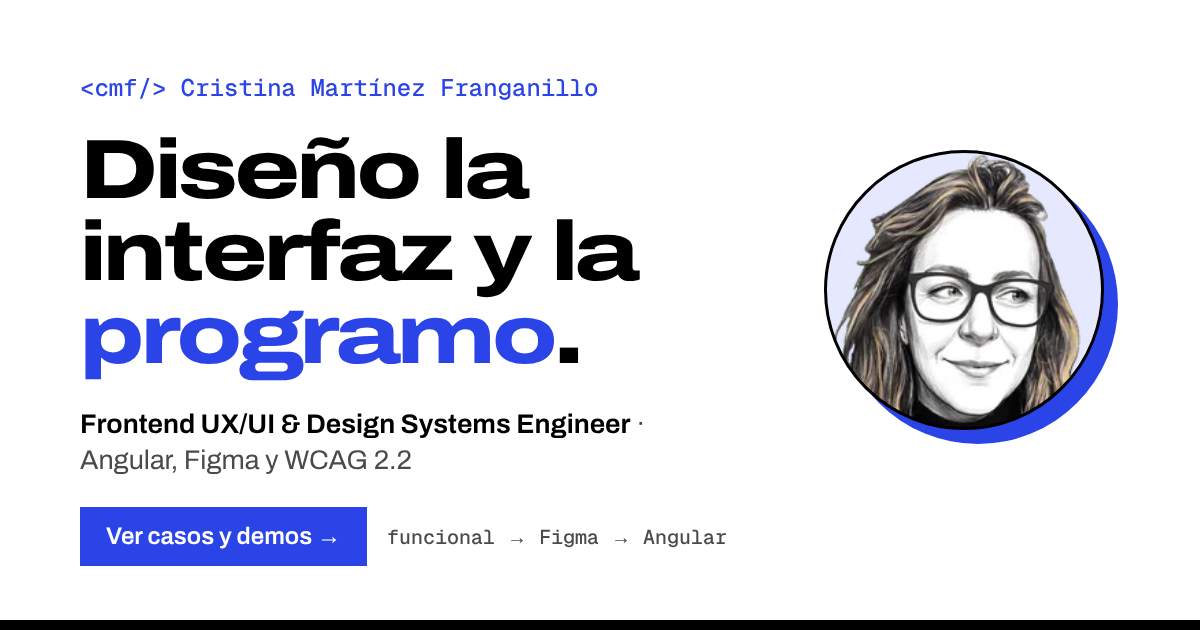
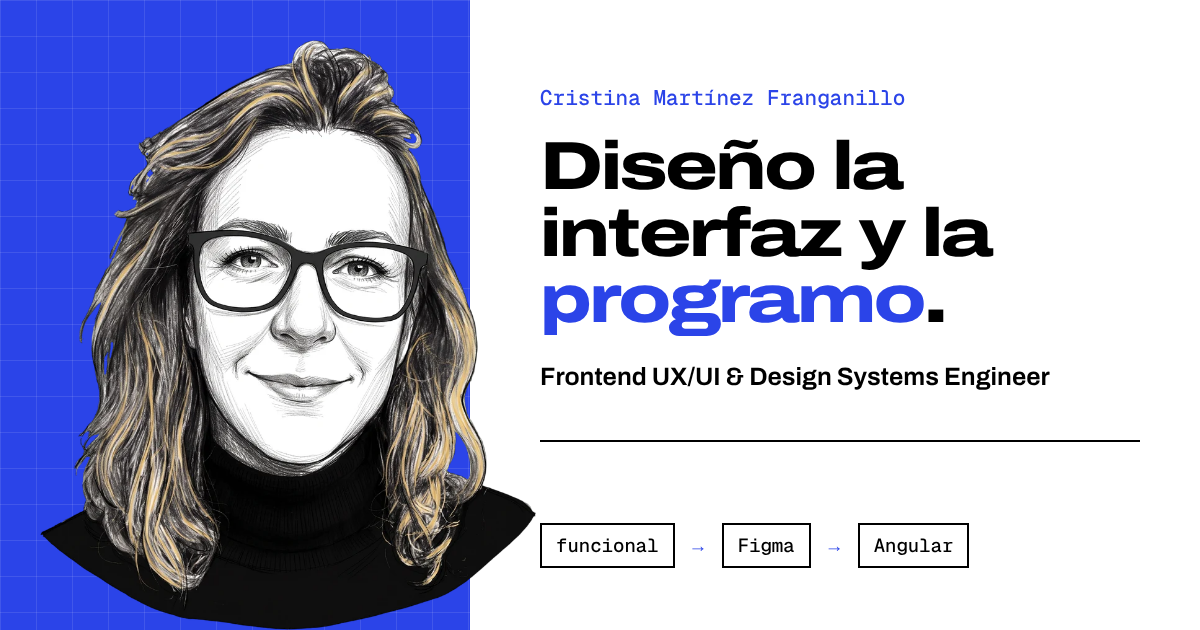
cambiar foto

diff --git a/src/styles/_home.scss b/src/styles/_home.scss
@@ -486,18 +486,18 @@ app-home {
   h3[id]{scroll-margin-top:96px}
 }
 
-/* retrato ilustrado en el hero: el recorrido funcional → Figma → Angular alrededor */
-.hero-art{position:relative;width:min(100%,460px);aspect-ratio:460/420;justify-self:center;--ha-accent:var(--accent,var(--ultra))}
-.hero-art app-retrato-perfil{--perfil-size:240px;position:absolute;left:50%;top:50%;transform:translate(-50%,-50%);z-index:1}
-.ha-path{position:absolute;inset:0;width:100%;height:100%;color:var(--ha-accent);overflow:visible}
-.ha-path path{fill:none;stroke:currentColor;stroke-width:1.6;stroke-dasharray:5 6}
-.ha-label{position:absolute;left:60%;top:0;font:var(--t-xs) var(--f-mono);color:var(--ha-accent);background:var(--paper);padding:0 6px;white-space:nowrap}
+/* retrato ilustrado en el hero: recortado sobre una lámina de acento, con el recorrido funcional → Figma → Angular */
+.hero-art{position:relative;width:min(100%,460px);aspect-ratio:460/500;justify-self:center;--ha-accent:var(--accent,var(--ultra))}
+.ha-figure{position:absolute;inset:0}
+.ha-panel{position:absolute;left:10%;right:4%;top:16%;bottom:0;background-color:var(--ha-accent);border:2px solid var(--rule);
+  background-image:linear-gradient(to right,rgb(255 255 255 / .12) 1px,transparent 1px),linear-gradient(to bottom,rgb(255 255 255 / .12) 1px,transparent 1px);background-size:28px 28px}
+.ha-portrait{position:absolute;left:52%;bottom:0;width:82%;height:auto;transform:translateX(-50%);display:block}
 .ha-chip{position:absolute;z-index:2;display:grid;gap:7px;width:158px;padding:10px 12px;background:var(--sheet);border:2px solid var(--rule);
-  box-shadow:4px 4px 0 var(--ha-accent);animation:ha-float 7s ease-in-out infinite}
+  box-shadow:4px 4px 0 var(--rule);animation:ha-float 7s ease-in-out infinite}
 .ha-k{font:500 .6875rem var(--f-mono);color:var(--ink-soft);letter-spacing:.02em}
-.ha-1{left:-12px;top:7%}
-.ha-2{right:-36px;top:38%;animation-delay:-2.3s}
-.ha-3{left:4%;bottom:3%;animation-delay:-4.6s}
+.ha-1{left:-28px;top:4%}
+.ha-2{right:-44px;top:44%;animation-delay:-2.3s}
+.ha-3{left:-36px;bottom:9%;animation-delay:-4.6s}
 .ha-doc{display:grid;gap:5px}
 .ha-doc i{display:block;height:4px;background:var(--hair,#D6D6D6)}
 .ha-doc i:nth-child(1){width:70%;background:var(--ink)}.ha-doc i:nth-child(3){width:85%}.ha-doc i:nth-child(4){width:55%}
@@ -507,10 +507,10 @@ app-home {
 .ha-3 code{font:500 .8125rem var(--f-mono);color:var(--ha-accent);background:none;padding:0}
 @keyframes ha-float{0%,100%{transform:translateY(0)}50%{transform:translateY(-5px)}}
 @media (prefers-reduced-motion:reduce){.ha-chip{animation:none}}
+@media (max-width:979px){.ha-1{left:0}.ha-2{right:0}.ha-3{left:0}}
 @media (max-width:559px){
   .hero-art{aspect-ratio:auto;display:flex;flex-wrap:wrap;justify-content:center;gap:12px}
-  .hero-art app-retrato-perfil{--perfil-size:200px;position:relative;left:auto;top:auto;transform:none;flex:0 0 100%;max-width:200px;margin:0 calc(50% - 100px) 12px}
-  .ha-path,.ha-label{display:none}
+  .ha-figure{position:relative;inset:auto;flex:0 0 100%;max-width:320px;aspect-ratio:460/500;margin:0 auto 12px}
   .ha-chip{position:static;width:auto;flex:1 1 30%;min-width:96px;animation:none;padding:8px}
   .ha-k,.ha-3 code{font-size:.625rem;white-space:nowrap}
 }

diff --git a/src/app/pages/home/home.component.html b/src/app/pages/home/home.component.html
@@ -35,13 +35,13 @@
     </div>
 
     <div class="hero-art">
-      <svg class="ha-path" viewBox="0 0 460 420" aria-hidden="true">
-        <defs><marker id="ha-arrow" viewBox="0 0 10 10" refX="8" refY="5" markerWidth="7" markerHeight="7" orient="auto-start-reverse"><path d="M0 0 L10 5 L0 10 z" fill="currentColor"/></marker></defs>
-        <path d="M168 52 C 270 0, 380 40, 398 138" marker-end="url(#ha-arrow)"/>
-        <path d="M404 240 C 404 330, 330 382, 214 386" marker-end="url(#ha-arrow)"/>
-      </svg>
-      <span class="ha-label" aria-hidden="true">análisis con Claude</span>
-      <app-retrato-perfil />
+      <div class="ha-figure">
+        <span class="ha-panel" aria-hidden="true"></span>
+        <img class="ha-portrait" src="/retrato-ilustrado-800.webp"
+             srcset="/retrato-ilustrado-480.webp 480w, /retrato-ilustrado-800.webp 800w"
+             sizes="(min-width: 980px) 380px, 300px" width="800" height="952" fetchpriority="high"
+             alt="Retrato ilustrado de Cristina Martínez Franganillo">
+      </div>
       <div class="ha-chip ha-1" aria-hidden="true"><span class="ha-k">01 · funcional</span><span class="ha-doc"><i></i><i></i><i></i><i></i></span></div>
       <div class="ha-chip ha-2" aria-hidden="true"><span class="ha-k">02 · Figma</span><span class="ha-frame"><i></i><i></i><i></i></span></div>
       <div class="ha-chip ha-3" aria-hidden="true"><span class="ha-k">03 · Angular</span><code>&lt;app-tramite /&gt;</code></div>

diff --git a/src/styles/_cuaderno.scss b/src/styles/_cuaderno.scss
@@ -56,9 +56,8 @@
   .hero h1 .tagc{font-family:var(--f-hand);font-size:.46em;font-weight:600;color:var(--spec);vertical-align:.4em;letter-spacing:0}
   .hero-name{font-family:var(--f-display);font-weight:700;font-stretch:112%}
   .hero-id{position:relative}
-  .hero-id app-retrato-perfil,.hero-art app-retrato-perfil{background:var(--accent-soft);border:2px solid var(--rule);
+  .hero-id app-retrato-perfil{background:var(--accent-soft);border:2px solid var(--rule);
     box-shadow:var(--calco) var(--calco) 0 var(--accent)}
-  .hero-art app-retrato-perfil{box-shadow:8px 8px 0 var(--accent)}
   .hero-id .nota{position:absolute;left:96px;top:-26px;font-family:var(--f-hand);font-size:1.35rem;color:var(--spec);transform:rotate(-4deg);white-space:nowrap;pointer-events:none}
   @media (max-width:559px){.hero-id .nota{left:76px;top:-34px;font-size:1.2rem}}
   .hero-id .nota svg{position:absolute;left:-30px;top:10px;width:26px;height:22px;transform:scaleX(-1)}

diff --git a/src/app/pages/home/home.component.ts b/src/app/pages/home/home.component.ts
@@ -5,12 +5,11 @@ import { DomSanitizer, SafeHtml } from '@angular/platform-browser';
 import { ThemeService } from '../../core/theme.service';
 import { TabsDirective } from '../../shared/tabs.directive';
 import { CODE } from './code-snippets';
-import { RetratoPerfilComponent } from '../../shared/ui/retrato-perfil.component';
 
 @Component({
   selector: 'app-home',
   standalone: true,
-  imports: [RouterLink, TabsDirective, RetratoPerfilComponent],
+  imports: [RouterLink, TabsDirective],
   templateUrl: './home.component.html',
 })
 export class HomeComponent {
